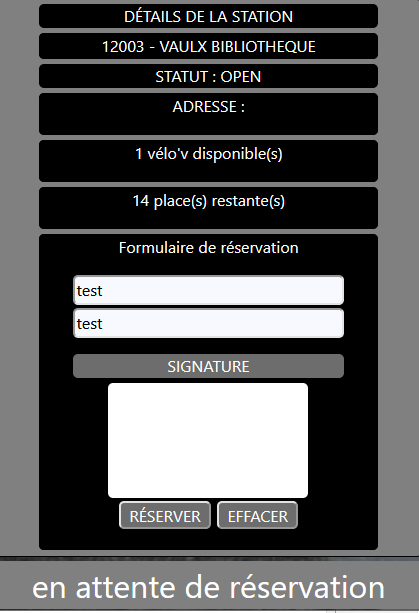
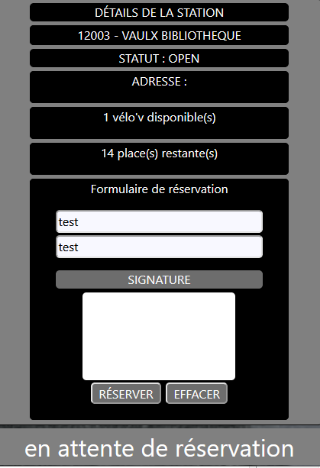
maj css crousel + slider

diff --git a/css/style.css b/css/style.css
@@ -298,7 +298,7 @@ canvas{
         background-size: contain; /*pour que nos images de fond soient à la fois contraintes dans 
          le conteneur mais occupe le plus d’espace dans celui-ci tout en conservant leur proportions d’origine.*/
         position: relative;    
-        margin: 0 0 10px 0;
+        margin: 0;
         width: 100%;
         display: flex;
         /*flex-direction: column*/
